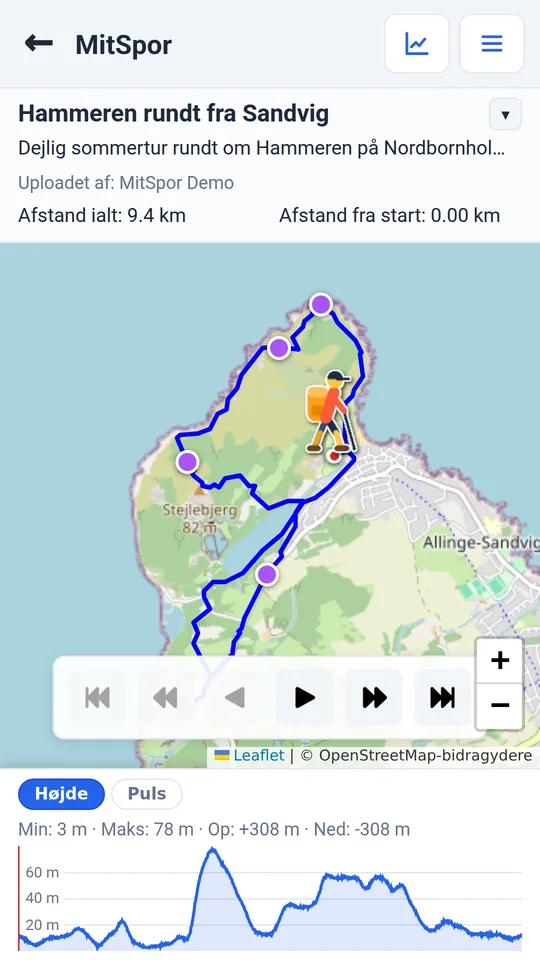
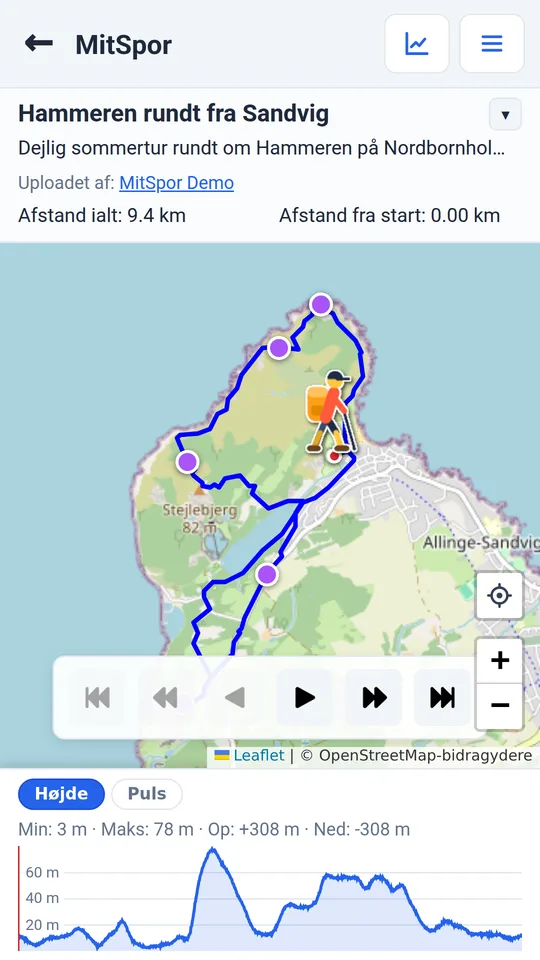
Vejledning: rettelser efter gennemgang, og rutesider taget igen med Vis min position

Changed region(s): [[0.8593, 0.5938, 0.9778, 0.6562], [0.2074, 0.1875, 0.4444, 0.2188]]

diff --git a/public/vejledning/kom-i-gang.php b/public/vejledning/kom-i-gang.php
@@ -35,8 +35,8 @@ echo vj_overskrift('kom-i-gang');
     ', vj_billede('app-intro.webp', 'Appens velkomst med knappen Kom i gang', 'Velkomsten vises kun første gang.')) ?>
 
     <?= vj_trin('Tryk på Opret konto', '
-        <p>Nu står du på appens <strong>startside</strong>. Øverst til højre er der to knapper. Tryk på
-        <strong class="knap">Opret konto</strong>.</p>
+        <p>Nu står du på appens <strong>startside</strong>. Øverst til højre står <strong>Opret konto</strong> og
+        <strong>Log ind</strong>. Tryk på <strong class="knap">Opret konto</strong>.</p>
         <p>Har du allerede en konto, så tryk på <strong class="knap">Log ind</strong> i stedet, og spring til trin 6.</p>
     ', vj_billede('app-start-ude.webp', 'Startsiden med knapperne Opret konto og Log ind', 'Opret konto står øverst til højre.')) ?>
 

diff --git a/public/vejledning/glemte-stop.php b/public/vejledning/glemte-stop.php
@@ -59,8 +59,8 @@ echo vj_overskrift('glemte-stop');
     <?= vj_trin('Klik på det sidste punkt, og tryk på Slet', '
         <p>Zoom ud, find enden af bilturen, og klik på den sidste prik. Hele bilturen bliver grøn, og nederst
         på skærmen står, hvor mange punkter og kilometer du har markeret.</p>
-        <p>Tryk på <strong class="knap">Slet</strong>, og tryk <strong>OK</strong>, når editoren spørger.</p>
         <p>Er markeringen forkert, så klik på en ny prik. Så begynder markeringen forfra med den prik som første punkt.</p>
+        <p>Klik på <strong class="knap">Slet</strong>, og klik på <strong>OK</strong>, når editoren spørger.</p>
     ', vj_billede('pc-glemt-markeret.webp', 'Bilturen er markeret med grønt, og knappen Slet er fremhævet nederst', '', 'computer')) ?>
 
     <?= vj_trin('Gem turen', '

diff --git a/public/vejledning/find-tur.php b/public/vejledning/find-tur.php
@@ -53,7 +53,7 @@ echo vj_overskrift('find-tur');
         <strong>Download GPX</strong>. Punktet findes kun, hvis den, der delte turen, har tilladt det.</p>
         <p>Du kan også følge turen direkte på telefonen: tryk på knappen med sigtekornet over <strong>+</strong> og
         <strong>−</strong>, så viser en blå prik, hvor du er. Det står beskrevet i <a href="/vejledning/planlaeg.php">Planlæg næste tur</a>.</p>
-        <p>Du kan også sende turen til andre med <strong>Del link</strong> i samme menu.</p>
+        <p>Med <strong>Del link</strong> i samme menu sender du turen videre til andre.</p>
     ', vj_billede('web-find-menu.webp', 'Turens menu med Download GPX fremhævet')) ?>
 
     </div>

diff --git a/public/vejledning/foerste-tur.php b/public/vejledning/foerste-tur.php
@@ -107,8 +107,8 @@ echo vj_overskrift('foerste-tur');
 
     <?= vj_trin('Giv turen et navn', '
         <p>Skriv en <strong>titel</strong>, som du kan genkende turen på, fx <em>Morgenløb i skoven</em>.</p>
-        <p>Vælg en <strong>aktivitet</strong>, her <strong>Løb</strong>. Aktiviteten bestemmer bl.a. det lille
-        billede, der viser turen på kortet.</p>
+        <p>Vælg en <strong>aktivitet</strong>, her <strong>Løb</strong>. Aktiviteten bestemmer bl.a. figuren, der
+        viser turen på kortet.</p>
         <p>Tryk på <strong class="knap">Upload</strong>.</p>
     ', vj_billede('app-upload.webp', 'Siden Upload tur med titlen Morgenløb i skoven og aktiviteten Løb')) ?>
 

diff --git a/public/vejledning/del-turen.php b/public/vejledning/del-turen.php
@@ -100,7 +100,8 @@ echo vj_overskrift('del-turen');
     <?= vj_godt('De andre valg i dialogen', '
         <ul>
             <li><strong>Tillad download af GPX-filen:</strong> så kan andre hente turen som en fil, fx til deres
-            eget GPS-ur. Vil du ikke det, så fjern fluebenet.</li>
+            eget GPS-ur. Vil du ikke det, så fjern fluebenet. Hvad en GPX-fil er, står i
+            <a href="/vejledning/ordbog.php#gpx-fil">ordbogen</a>.</li>
             <li><strong>Vær anonym som uploader:</strong> så står dit navn ikke ved turen.</li>
         </ul>
         <p>Du kan altid gøre turen privat igen på samme måde.</p>

diff --git a/public/vejledning/ferie.php b/public/vejledning/ferie.php
@@ -94,7 +94,7 @@ echo vj_overskrift('ferie');
             <strong>Rediger gruppe</strong>. Så kommer den med på kortet på mitspor.dk som én tur. Tryk derefter
             på <strong>del-knappen</strong> øverst på gruppens side, og send linket.</li>
             <li>Vil du hellere beholde den privat, kan du sende et link til alle dine ture med
-            <strong>Del alle mine ruter</strong> i menuen (☰) i kontrolpanelet.</li>
+            <strong>Del alle mine ruter</strong>. Se <a href="/vejledning/alle-ture.php">Vis alle dine ture</a>.</li>
         </ul>
     ') ?>
 

diff --git a/public/vejledning/udseende.php b/public/vejledning/udseende.php
@@ -36,7 +36,7 @@ echo vj_overskrift('udseende');
 
     <div class="vj-trinliste">
 
-    <?= vj_trin('Vælg Vælg markør i kontrolpanelet', '
+    <?= vj_trin('Åbn Vælg markør i kontrolpanelet', '
         <p>Åbn dit <strong>kontrolpanel</strong>, tryk på turen, og vælg <strong>Vælg markør</strong>.</p>
     ', vj_billede('web-markoer-knap.webp', 'Turens værktøjer i kontrolpanelet med Vælg markør fremhævet')) ?>
 

diff --git a/app/vejledning.php b/app/vejledning.php
@@ -66,7 +66,7 @@ function vejledning_kapitler(): array
         'planlaeg' => [
             'titel' => 'Planlæg næste tur',
             'kort'  => 'Tegn en rute på kortet, og send den til dem, du skal af sted med.',
-            'enhed' => 'computer', 'klar' => true,
+            'enhed' => 'begge', 'klar' => true,
         ],
         'find-tur' => [
             'titel' => 'Find en ny tur',
